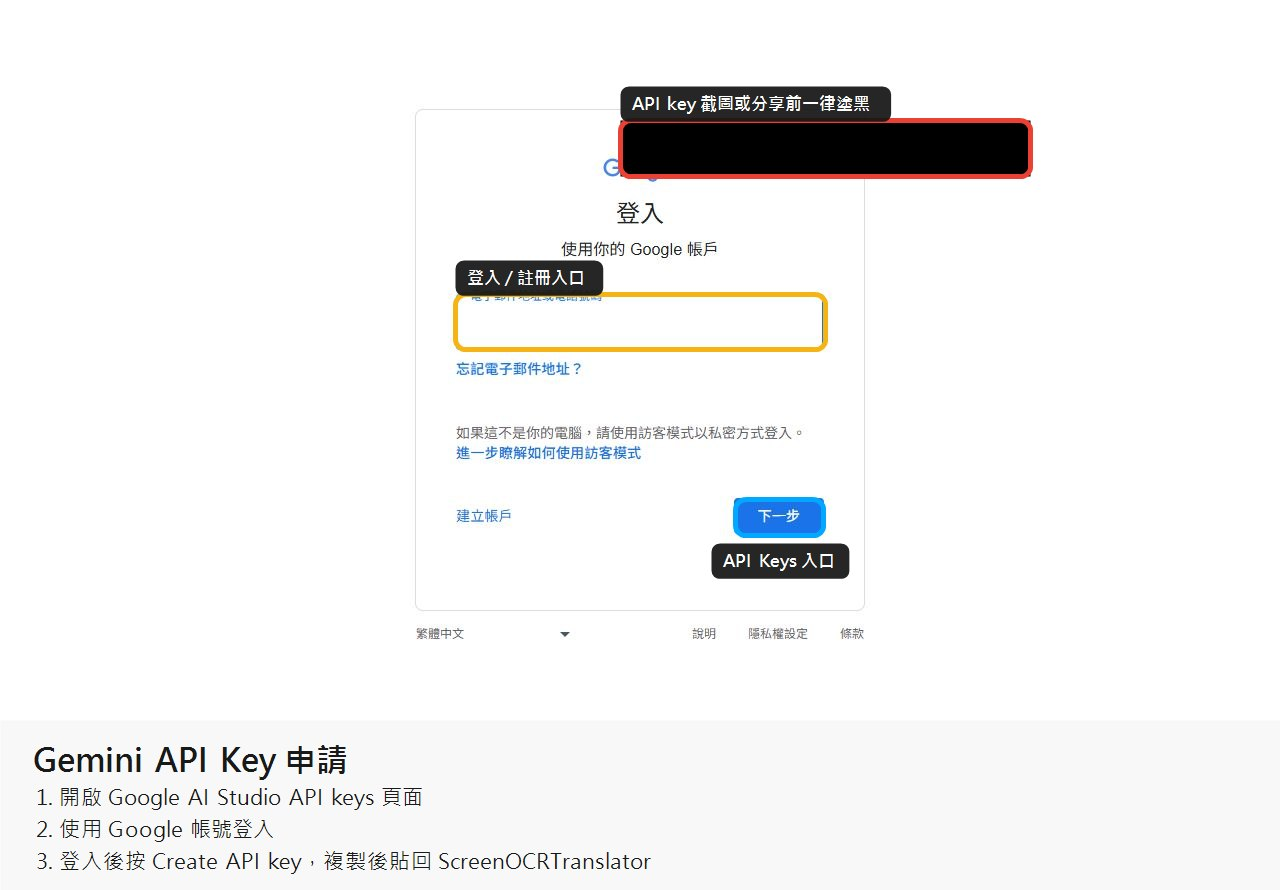
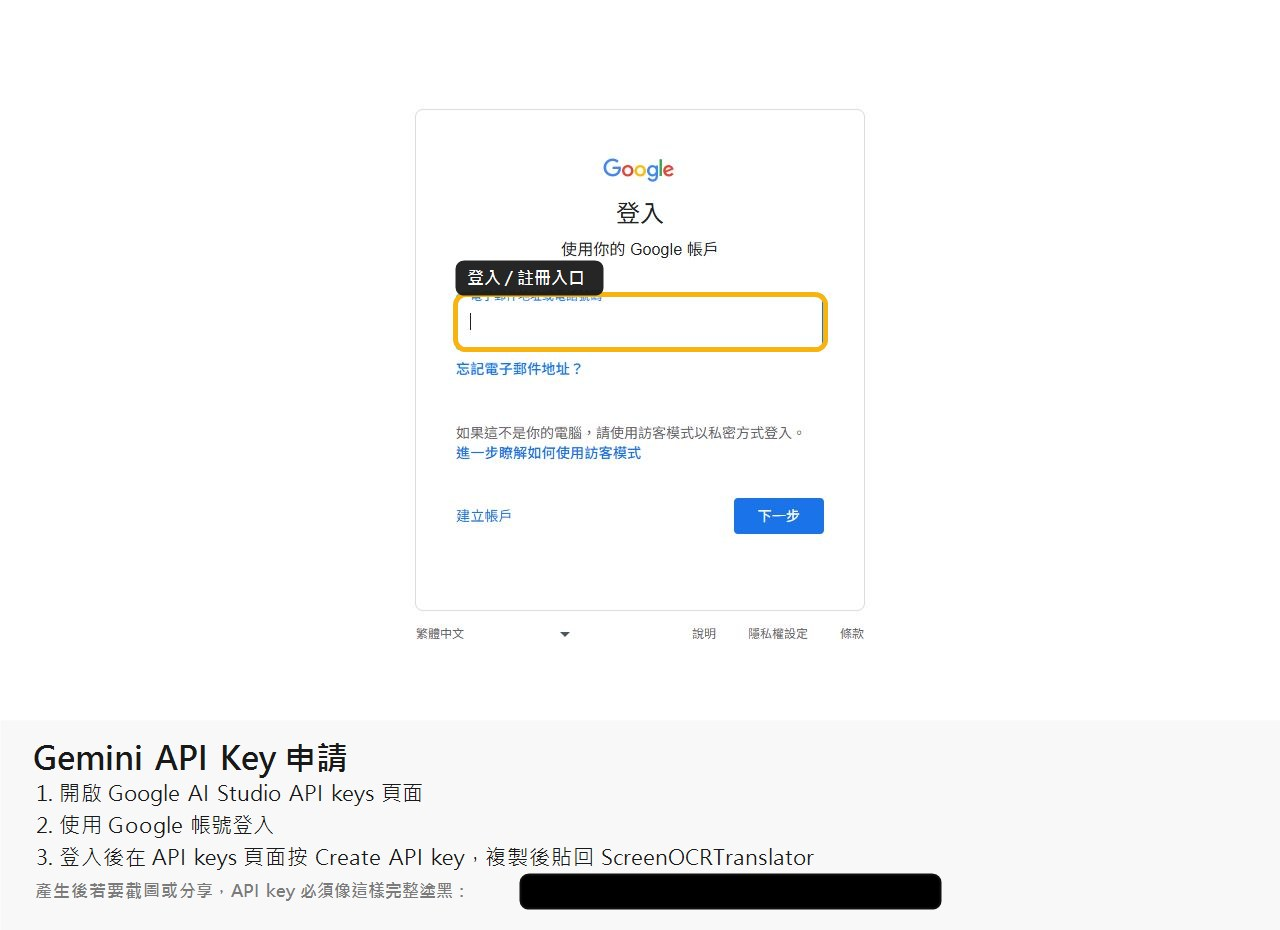
修正 API Key 教學截圖遮罩位置
修改內容：

- 重新產生 API key 教學截圖，移除登入頁上錯誤位置的遮蔽黑框。

- 將 API key 塗黑改為下方教學區的遮蔽示意。

- 補充 API_KEY_GUIDE.md 說明黑條是遮蔽示意，不代表網站固定顯示位置。

diff --git a/API_KEY_GUIDE.md b/API_KEY_GUIDE.md
@@ -1,6 +1,6 @@
 # API Key 申請截圖教學
 
-本教學示範如何進入 Gemini、Mistral Vision 與 Groq Llama4 的 API key 申請頁面。截圖只保留登入/註冊入口與操作位置，不包含真實 API key。
+本教學示範如何進入 Gemini、Mistral Vision 與 Groq Llama4 的 API key 申請頁面。截圖只保留登入/註冊入口與操作位置，不包含真實 API key；圖中的黑條是遮蔽示意，不代表網站上的固定顯示位置。
 
 安全提醒：
 
